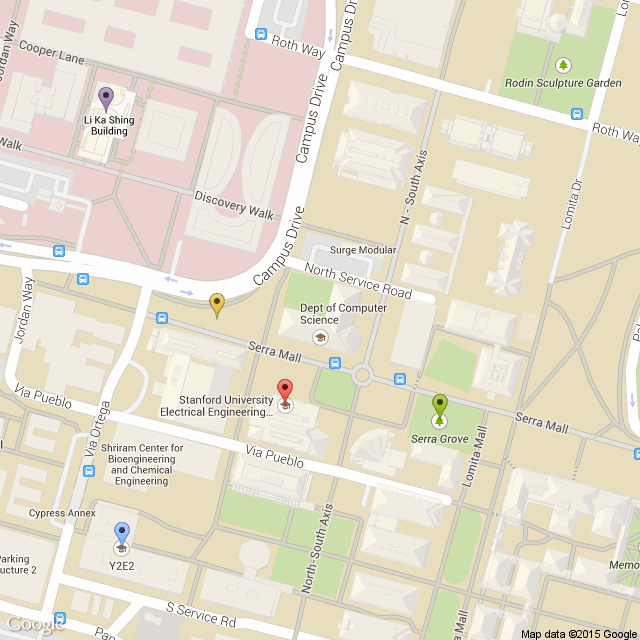
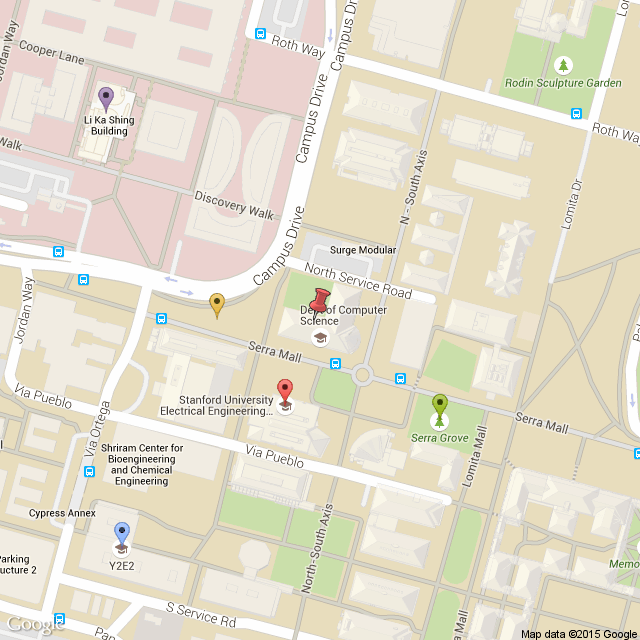
Quick update to map

diff --git a/location.html b/location.html
@@ -26,14 +26,14 @@
                 <a id="leftClick" href="#"><span id="leftIcon" class="glyphicon glyphicon-chevron-left text-muted"></span></a>
             </div>
         </div>
-        <div class="col-xs-10 column">
+        <div class="col-xs-9 column">
             <div id="thumbnailID" class="thumbnail">
                 <h3>Kevin Han</h3>
                 <p style="font-weight:bold">Pin Color: Red</p>
                 <p style="font-weight:bold">ETA: Unknown</p>
             </div>
         </div>
-        <div class="col-xs-1 column">
+        <div class="col-xs-2 column">
             <div class="thumbnail thumb-center">
                 <a id="rightClick" href="#"><span id="rightIcon" class="glyphicon glyphicon-chevron-right"></span></a>
             </div>
@@ -49,7 +49,7 @@
                 </div>
             </div>
             <!-- URL used to request image (using local copy for better performance)
-            <img class="image-map" src="http://maps.googleapis.com/maps/api/staticmap?center=Gates+Computer+Science,+Stanford,+CA&zoom=17&scale=1&size=640x640&maptype=roadmap&format=png&visual_refresh=true&markers=size:mid%7Ccolor:red%7CElectrical,+Stanford,+CA&markers=size:mid%7Ccolor:blue%7CY2E2,+Stanford,+CA&markers=size:mid%7Ccolor:purple%7CLi+Ka+Shing,+Stanford,+CA&markers=size:mid%7Ccolor:green%7CSerra+Grove,+Stanford,+CA&markers=size:mid%7Ccolor:yellow%7C37.430152,-122.174596&markers=icon:http://maps.google.com/mapfiles/ms/icons/red-pushpin.png%7Cshadow:true%7CGates+Computer+Science,+Stanford,+CA" alt="Google Map of Gates Computer Science, Stanford, CA">
+            <img class="image-map" src="http://maps.googleapis.com/maps/api/staticmap?center=Gates+Computer+Science,+Stanford,+CA&zoom=17&scale=1&size=640x640&maptype=roadmap&format=png&visual_refresh=true&markers=size:mid%7Ccolor:red%7CElectrical,+Stanford,+CA&markers=size:mid%7Ccolor:blue%7CY2E2,+Stanford,+CA&markers=size:mid%7Ccolor:purple%7CLi+Ka+Shing,+Stanford,+CA&markers=size:mid%7Ccolor:green%7CSerra+Grove,+Stanford,+CA&markers=size:mid%7Ccolor:yellow%7C37.430152,-122.174596&markers=icon:http://maps.google.com/mapfiles/ms/icons/red-pushpin.png%7&markers=icon:http://maps.google.com/mapfiles/ms/icons/red-pushpin.png%7Cshadow:true%7CGates+Computer+Science,+Stanford,+CA" alt="Google Map of Gates Computer Science, Stanford, CA">
             -->
             <img class="image-map" src="img/map2.png" alt="Google Map of Gates Computer Science, Stanford, CA">
             
